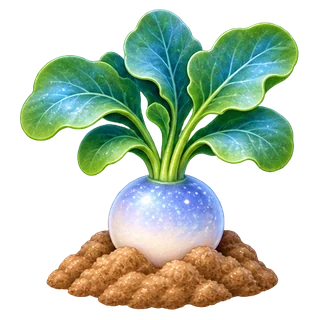
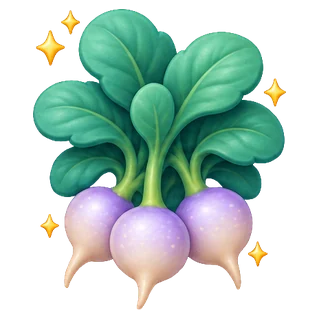
Nouveaux hybrides et images des 8 hybrides (0.19.0)
- Patate cœur (pomme de terre + fraise), Tomate lanterne (tomate + potiron),
  Épi d'azur (blé + radis), Carotte améthyste (carotte + lavande)
  remplacent radis rubis, basilomate, blé d'or et citrouillotte
- Recettes : Gnocchis roses et Soupe lanterne ; Gâteau des moissons revu
- Images sans terre pour les 8 hybrides (graine, pousse, jeune plant,
  mûre, récolte, sac)
- Conversion automatique des anciennes parties

Claude-Session: https://claude.ai/code/session_018D5HKJWKwN88xpAGuhHMQJ

diff --git a/js/data.js b/js/data.js
@@ -15,14 +15,14 @@ const PLANTS = {
   lavande:  { name: "Lavande", desc: "Les abeilles l’adorent, les tisanes aussi.", lvl: 10, cost: 20, time: 2160, sell: 58, xp: 12, shape: "flower", spike: true, color: "#9f7ae0" },
   potiron:  { name: "Potiron", desc: "Il prend son temps, mais quel résultat !", lvl: 11, cost: 35, time: 3600, sell: 110, xp: 20, shape: "big", color: "#f08a24" },
   // Hybrides : découverts dans la Serre
-  rubis:    { name: "Radis rubis", desc: "Un radis rouge profond, au goût légèrement fruité.", hybrid: true, parents: ["radis", "fraise"], time: 720, sell: 42, xp: 10, shape: "bulb", color: "#c2185b", spot: "#ff9fc0", hint: "Une racine ronde et un petit fruit rouge…" },
-  poivree:  { name: "Laitue poivrée", desc: "Une laitue aux feuilles pourpres et au petit goût poivré.", hybrid: true, parents: ["laitue", "basilic"], time: 900, sell: 52, xp: 11, shape: "leafy", color: "#b8e07a", outer: "#a3475e", hint: "Deux feuillages qui se ressemblent…" },
-  lune:     { name: "Radis lune", desc: "Un radis bleu pâle, qu’on dit cueilli à la lumière de la lune.", hybrid: true, parents: ["radis", "myrtille"], time: 1260, sell: 72, xp: 14, shape: "bulb", color: "#6b7fe0", spot: "#d6ddff", hint: "Une racine rose qui rêve de bleu…" },
-  basilomate:{ name: "Basilomate", desc: "Une tomate qui sent déjà le basilic. La sauce se fait presque seule.", hybrid: true, parents: ["tomate", "basilic"], time: 1440, sell: 86, xp: 16, shape: "round", color: "#e8633f", spot: "#7fcf6a", hint: "Le duo préféré des sauces…" },
-  fraisille:{ name: "Fraisille", desc: "Mi-fraise, mi-myrtille, et deux fois plus sucrée.", hybrid: true, parents: ["fraise", "myrtille"], time: 1620, sell: 96, xp: 18, shape: "berry", color: "#b04fc0", spot: "#ffb3e0", hint: "Deux baies de couleurs différentes…" },
-  bledor:   { name: "Blé d’or", desc: "Des épis si dorés qu’ils brillent au soleil.", hybrid: true, parents: ["ble", "tournesol"], time: 2400, sell: 150, xp: 26, shape: "grain", color: "#ffcf1f", spot: "#fff2a8", hint: "Un épi qui suit le soleil…" },
-  citrouillotte:{ name: "Citrouillotte", desc: "Un potiron allongé comme une carotte. Personne ne sait comment c’est possible.", hybrid: true, parents: ["carotte", "potiron"], time: 3300, sell: 195, xp: 32, shape: "big", color: "#ff9a3d", spot: "#ffd08a", hint: "Le plus gros et le plus pointu des orange…" },
-  lilas:    { name: "Soleil lilas", desc: "Un tournesol aux pétales lilas, le joyau de l’herbier.", hybrid: true, parents: ["lavande", "tournesol"], time: 3000, sell: 205, xp: 34, shape: "flower", color: "#c79bf2", center: "#f6c62f", hint: "Deux fleurs, une violette et une géante…" },
+  poivree:  { name: "Laitue poivrée", desc: "Une laitue au cœur vert tendre dont les feuilles froissées se teintent de pourpre sur les bords.", hybrid: true, parents: ["laitue", "basilic"], time: 900, sell: 52, xp: 11, shape: "leafy", color: "#b8e07a", hint: "Une salade qui aurait des envies d’herbes aromatiques…" },
+  lune:     { name: "Radis lune", desc: "Un radis nacré, entre lilas et blanc, parsemé de reflets argentés qui scintillent.", hybrid: true, parents: ["radis", "myrtille"], time: 1260, sell: 72, xp: 14, shape: "bulb", color: "#b9a6e8", hint: "Une racine rose qui rêve de bleu…" },
+  fraisille: { name: "Fraisille", desc: "Une fraise couleur myrtille, violette et poudrée, deux fois plus sucrée.", hybrid: true, parents: ["fraise", "myrtille"], time: 1620, sell: 96, xp: 18, shape: "berry", color: "#b04fc0", hint: "Deux baies de couleurs différentes…" },
+  lilas:    { name: "Soleil lilas", desc: "Un tournesol aux pétales lilas et violets autour d’un cœur doré, le joyau de l’herbier.", hybrid: true, parents: ["lavande", "tournesol"], time: 3000, sell: 205, xp: 34, shape: "flower", color: "#c79bf2", hint: "Deux fleurs, une violette et une géante…" },
+  coeur:    { name: "Patate cœur", desc: "De petites pommes de terre rose framboise en forme de cœur, piquetées de points comme une fraise.", hybrid: true, parents: ["patate", "fraise"], time: 1080, sell: 60, xp: 12, shape: "bulb", color: "#e05a7a", hint: "Un tubercule qui rêverait d’être un fruit rouge…" },
+  lanterne: { name: "Tomate lanterne", desc: "Des tomates orange doré à côtes, lumineuses comme de petites lanternes suspendues.", hybrid: true, parents: ["tomate", "potiron"], time: 3000, sell: 200, xp: 33, shape: "round", color: "#f59a2a", hint: "Un fruit rouge qui voudrait devenir une citrouille…" },
+  azur:     { name: "Épi d’azur", desc: "Des épis aux grains bleu turquoise nacrés, sur des tiges argentées.", hybrid: true, parents: ["ble", "radis"], time: 960, sell: 55, xp: 11, shape: "grain", color: "#3fc4d6", hint: "Une céréale qui aurait croisé une racine croquante…" },
+  amethyste: { name: "Carotte améthyste", desc: "Des carottes violet profond, translucides comme une pierre précieuse, aux fanes argentées.", hybrid: true, parents: ["carotte", "lavande"], time: 2160, sell: 140, xp: 24, shape: "root", color: "#9b3fd0", hint: "Une racine orange qui rêve de violet…" },
 };
 const ORDER = Object.keys(PLANTS);
 const HYBRID_BY_PAIR = {};
@@ -37,9 +37,9 @@ const RECIPES = {
   pain:     { name: "Pain de campagne", desc: "Croûte dorée, mie moelleuse : l’odeur attire tout le village.", lvl: 4, price: 50, need: { ble: 3 }, time: 150, sell: 66, xp: 12, look: "bread", color: "#d39a52" },
   soupe:    { name: "Soupe de carottes", desc: "Douce, chaude et très, très orange.", lvl: 5, price: 45, need: { carotte: 2, patate: 1 }, time: 120, sell: 56, xp: 10, look: "bowl", color: "#f28a2e" },
   tarte:    { name: "Tarte aux fraises", desc: "Une pâte sablée et des fraises bien rangées.", lvl: 5, price: 80, need: { fraise: 2, ble: 2 }, time: 200, sell: 108, xp: 16, look: "pie", color: "#e8414f" },
-  confiture:{ name: "Confiture rubis", desc: "Un pot rouge rubis à tartiner sans modération.", lvl: 6, price: 300, need: { rubis: 2, fraise: 2 }, time: 300, sell: 225, xp: 30, look: "jar", color: "#c2185b" },
+  gnocchis: { name: "Gnocchis roses", desc: "De petits gnocchis roses et fondants, faits avec des patates cœur.", lvl: 6, price: 260, need: { coeur: 3, ble: 1 }, time: 260, sell: 245, xp: 30, look: "bowl", color: "#e98aa0" },
   sauce:    { name: "Sauce tomate", desc: "Mijotée longtemps, avec une feuille de basilic pour finir.", lvl: 7, price: 110, need: { tomate: 2, basilic: 1 }, time: 220, sell: 128, xp: 18, look: "jar", color: "#e2483d" },
-  pesto:    { name: "Pesto basilomate", desc: "Le basilomate fait tout le travail, ou presque.", lvl: 7, price: 260, need: { basilomate: 2, ble: 1 }, time: 260, sell: 225, xp: 28, look: "jar", color: "#6fae4a" },
+  lanterne_soupe: { name: "Soupe lanterne", desc: "Une soupe dorée et parfumée, servie avec une feuille de basilic.", lvl: 7, price: 300, need: { lanterne: 2, basilic: 1 }, time: 300, sell: 470, xp: 40, look: "bowl", color: "#f59a2a" },
   graines:  { name: "Pain aux graines", desc: "Un pain croustillant parsemé de graines de tournesol.", lvl: 8, price: 150, need: { ble: 2, tournesol: 2 }, time: 240, sell: 240, xp: 26, look: "bread", color: "#c08a4a" },
   pizza:    { name: "Pizza du potager", desc: "Pâte dorée, sauce tomate et basilic frais : le repas du jardinier.", lvl: 8, price: 180, need: { ble: 2, tomate: 2, basilic: 1 }, time: 240, sell: 175, xp: 24, look: "pie", color: "#e2483d" },
   muffins:  { name: "Muffins myrtille", desc: "Moelleux, avec des myrtilles qui éclatent sous la dent.", lvl: 9, price: 140, need: { myrtille: 2, ble: 1 }, time: 240, sell: 142, xp: 20, look: "cake", color: "#5a6fd6" },
@@ -47,7 +47,7 @@ const RECIPES = {
   biscuits: { name: "Biscuits à la lavande", desc: "De petits sablés parfumés, à grignoter avec une tisane.", lvl: 10, price: 160, need: { lavande: 1, ble: 2 }, time: 180, sell: 125, xp: 18, look: "cake", color: "#a57be0" },
   tisane:   { name: "Tisane lavande", desc: "Une infusion apaisante pour la fin de journée.", lvl: 10, price: 160, need: { lavande: 2 }, time: 180, sell: 138, xp: 18, look: "cup", color: "#a57be0" },
   veloute:  { name: "Velouté de potiron", desc: "Onctueux et réconfortant, parfait quand il fait frais.", lvl: 11, price: 220, need: { potiron: 1, patate: 1, carotte: 1 }, time: 300, sell: 165, xp: 24, look: "bowl", color: "#f08a24" },
-  gateau:   { name: "Gâteau des moissons", desc: "Le chef-d’œuvre des récoltes : doré, fruité et généreux.", lvl: 14, price: 500, need: { bledor: 2, citrouillotte: 1, myrtille: 2 }, time: 600, sell: 720, xp: 60, look: "cake", color: "#ffcf1f" },
+  gateau:   { name: "Gâteau des moissons", desc: "Le chef-d’œuvre des récoltes : doré, fruité et généreux.", lvl: 14, price: 500, need: { azur: 2, amethyste: 1, myrtille: 2 }, time: 600, sell: 720, xp: 60, look: "cake", color: "#ffcf1f" },
 };
 const RORDER = Object.keys(RECIPES);
 

diff --git a/js/game.js b/js/game.js
@@ -1,7 +1,7 @@
 "use strict";
 /* Numéro de version affiché dans les Paramètres.
    À chaque mise à jour : changer APP_VERSION, le ?v= dans index.html et VERSION dans sw.js. */
-const APP_VERSION = "0.18.1";
+const APP_VERSION = "0.19.0";
 /* ---------------- Helpers ---------------- */
 const $ = s => document.querySelector(s);
 const now = () => Date.now();
@@ -53,6 +53,18 @@ function load() {
   return null;
 }
 function migrate(s) {
+  // Hybrides remplacés (0.19.0) : on convertit graines, récoltes, découvertes et parcelles.
+  const HYB_MAP = { rubis: "coeur", basilomate: "lanterne", bledor: "azur", citrouillotte: "amethyste" };
+  const DISH_MAP = { confiture: "gnocchis", pesto: "lanterne_soupe" };
+  const remap = (bag, map) => { if (!bag) return; for (const [o, n] of Object.entries(map)) if (bag[o]) { bag[n] = (bag[n] || 0) + bag[o]; delete bag[o]; } };
+  remap(s.seeds, HYB_MAP); remap(s.crops, HYB_MAP); remap(s.dishes, DISH_MAP);
+  if (s.hybrids) s.hybrids = [...new Set(s.hybrids.map(k => HYB_MAP[k] || k))];
+  if (s.discovered) s.discovered = [...new Set(s.discovered.map(k => HYB_MAP[k] || k))];
+  if (s.recipes) s.recipes = [...new Set(s.recipes.map(r => DISH_MAP[r] || r))];
+  for (const p of s.plots || []) { if (HYB_MAP[p.seed]) p.seed = HYB_MAP[p.seed]; if (HYB_MAP[p.lastSeed]) p.lastSeed = HYB_MAP[p.lastSeed]; }
+  if (s.cooking) for (const c of s.cooking) if (DISH_MAP[c.r]) c.r = DISH_MAP[c.r];
+  if (s.lab) { if (HYB_MAP[s.lab.a]) s.lab.a = HYB_MAP[s.lab.a]; if (HYB_MAP[s.lab.b]) s.lab.b = HYB_MAP[s.lab.b]; }
+  if (s.orders) s.orders = s.orders.filter(o => Object.keys(o.items).every(k => PLANTS[k] || RECIPES[k]));
   // Panier et gants sont à acheter pour tout le monde : on retire ceux offerts par la version 0.17.0.
   if (s.upg && !s.upgBought017) { s.upg.basket = 0; s.upg.gloves = 0; s.upgBought017 = true; }
   const f = fresh(); for (const k in f) if (!(k in s)) s[k] = f[k]; for (const k in f.upg) if (!(k in s.upg)) s.upg[k] = 0; for (const k in f.stats) if (!(k in s.stats)) s.stats[k] = 0; for (const k in f.settings) if (!(k in s.settings)) s.settings[k] = f.settings[k]; return s; }

diff --git a/index.html b/index.html
@@ -6,13 +6,13 @@
   <title>Potager idle</title>
   <meta name="description" content="Un petit jeu idle de potager : plante, arrose, récolte, cuisine et découvre des variétés hybrides.">
   <meta name="theme-color" content="#f2f9e6" id="theme-color">
-  <link rel="manifest" href="manifest.webmanifest?v=91">
+  <link rel="manifest" href="manifest.webmanifest?v=92">
   <link rel="icon" href="icons/favicon-32.png" sizes="32x32" type="image/png">
   <link rel="icon" href="icons/favicon-64.png" sizes="64x64" type="image/png">
   <link rel="icon" href="icons/icon-192.png" sizes="192x192" type="image/png">
   <link rel="preload" href="fonts/nunito-latin.woff2" as="font" type="font/woff2" crossorigin>
   <link rel="preload" href="fonts/fredoka-latin.woff2" as="font" type="font/woff2" crossorigin>
-  <link rel="stylesheet" href="css/style.css?v=91">
+  <link rel="stylesheet" href="css/style.css?v=92">
 </head>
 <body>
 <div id="app">
@@ -41,9 +41,9 @@
 <div id="fx"></div>
 <div id="toasts" aria-live="polite"></div>
 
-<script src="js/data.js?v=91"></script>
-<script src="assets/img/manifest.js?v=91"></script>
-<script src="js/art.js?v=91"></script>
-<script src="js/game.js?v=91"></script>
+<script src="js/data.js?v=92"></script>
+<script src="assets/img/manifest.js?v=92"></script>
+<script src="js/art.js?v=92"></script>
+<script src="js/game.js?v=92"></script>
 </body>
 </html>

diff --git a/js/art.js b/js/art.js
@@ -210,9 +210,9 @@ function cropArt(k) { return hasImg("plants", k) ? imgSvg(`assets/img/${k}-crop.
 function seedArt(k) { return hasImg("plants", k) ? imgSvg(`assets/img/${k}-seeds.webp`) : packetArt(k); }
 
 /* Pousses et jeunes plants dessinés sans terre, posés directement dans le bac. */
-const SPROUTS = new Set(["rubis", "lilas", "citrouillotte", "bledor", "fraisille", "basilomate", "lune", "poivree", "radis", "laitue", "patate", "carotte", "ble", "fraise", "basilic", "tomate", "myrtille", "lavande", "potiron", "tournesol"]);
+const SPROUTS = new Set(Object.keys(PLANTS));
 /* Plantes mûres dessinées sans terre (posées directement dans le bac). */
-const RIPE_NO_SOIL = new Set(["radis", "laitue", "patate", "carotte", "ble", "fraise", "basilic", "tomate", "myrtille", "lavande", "potiron", "tournesol"]);
+const RIPE_NO_SOIL = new Set(Object.keys(PLANTS));
 function plantArt(k, stage, inPlot) {
   if (stage === 1 && SPROUTS.has(k)) return imgSvg(`assets/img/${k}-sprout.webp`, "art img sprout");
   if (stage === 2 && SPROUTS.has(k)) return imgSvg(`assets/img/${k}-young.webp`, "art img young");

diff --git a/assets/img/manifest.js b/assets/img/manifest.js
@@ -1,2 +1,2 @@
 /* Généré par tools/process_images.py : liste des images disponibles. */
-window.IMG = {"plants": ["basilic", "basilomate", "ble", "bledor", "carotte", "citrouillotte", "fraise", "fraisille", "laitue", "lavande", "lilas", "lune", "myrtille", "patate", "poivree", "potiron", "radis", "rubis", "tomate", "tournesol"], "dishes": ["confiture", "gateau", "muffins", "pain", "pesto", "salade", "sauce", "smoothie", "soupe", "tarte", "tisane", "veloute"], "ui": []};
+window.IMG = {"plants": ["amethyste", "azur", "basilic", "ble", "carotte", "coeur", "fraise", "fraisille", "laitue", "lanterne", "lavande", "lilas", "lune", "myrtille", "patate", "poivree", "potiron", "radis", "tomate", "tournesol"], "dishes": ["gateau", "muffins", "pain", "salade", "sauce", "smoothie", "soupe", "tarte", "tisane", "veloute"], "ui": []};

diff --git a/sw.js b/sw.js
@@ -1,6 +1,6 @@
 /* Service worker de Potager idle : rend le jeu jouable hors-ligne.
    À chaque mise à jour du jeu, augmente VERSION pour que les téléphones téléchargent la nouvelle version. */
-const VERSION = "potager-v91";
+const VERSION = "potager-v92";
 const FILES = [
   "./",
   "index.html",
